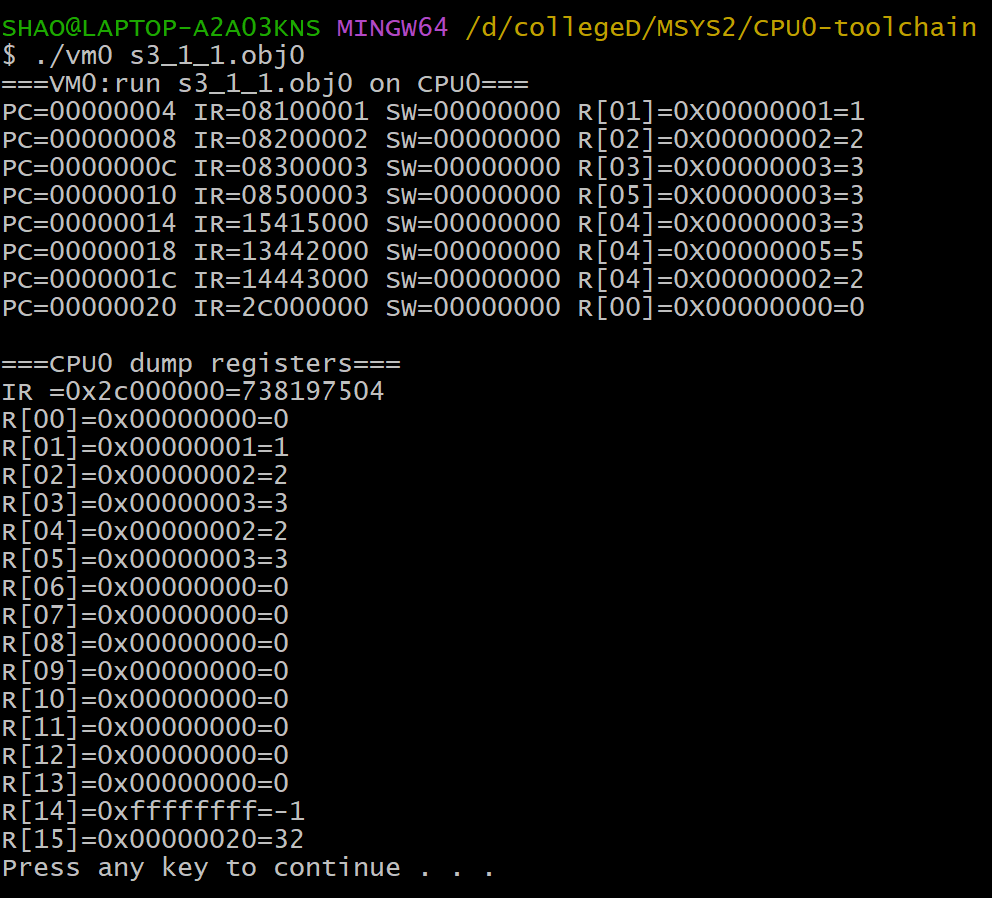
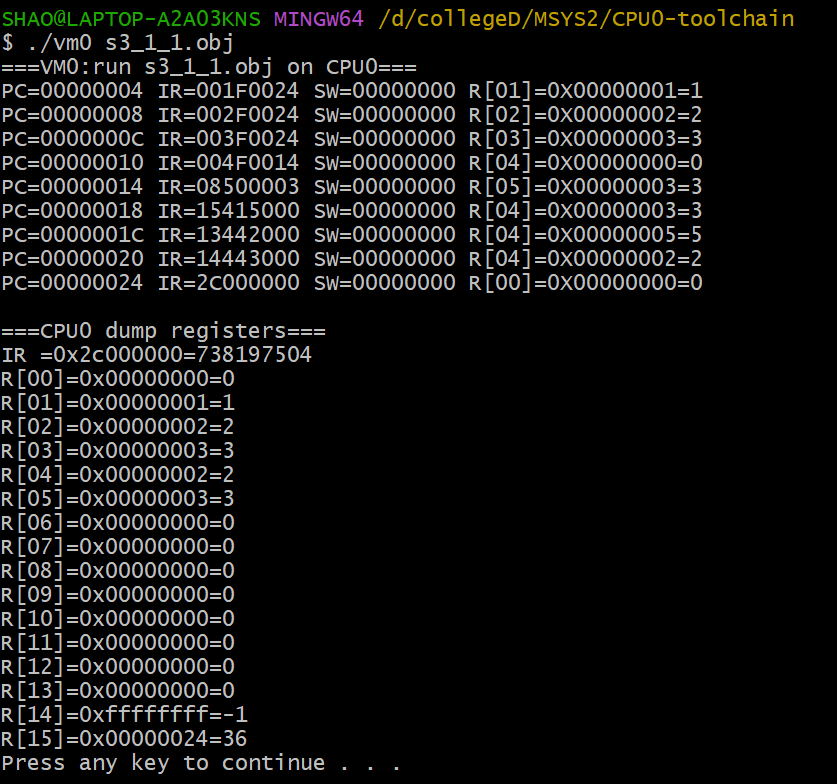
HW4 update

Changed region(s): [[0.0, 0.0, 0.994, 0.9796]]

diff --git a/HW4/hw4.md b/HW4/hw4.md
@@ -7,25 +7,30 @@
 程式碼：
 
 ```asm
-LDI R1, 1 # b
-LDI R2, 2 # c
-LDI R3, 3 # d
+LD R1, B # B
+LD R2, C # C
+LD R3, D # D
+LD R4, A # A
 LDI R5, 3 # constant 3
-MUL R4, R1, R5 # a = b*3
-ADD R4, R4, R2 # a = b*3 + c
-SUB R4, R4, R3 # a = b*3 + c - d
+MUL R4, R1, R5 # A = B*3
+ADD R4, R4, R2 # A = B*3 + C
+SUB R4, R4, R3 # A = B*3 + C - D
 RET
+A:  RESW 1
+B:  WORD 1
+C:  WORD 2
+D:  WORD 3
 ```
 
-編譯結果：
+執行Assembler結果：
 
-![compile](compile1.png)
+![assemble](assemble1.png)
 
-執行結果：
+執行Virtual machine結果：
 
 ![result](result1.png)
 
-## 請寫出一個 CPU 的組合語言 swap，可以將暫存器 $R1$ 與 $R2$ 的內容交換。先載入自行設定常數值後，再開始執行交換。
+## 請寫出一個 CPU 的組合語言 swap，可以將暫存器 R1 與 R2 的內容交換。先載入自行設定常數值後，再開始執行交換。
 
 > 以 R1=1, R2=2 為例 **(使用超酷的XOR方法，可以不需要第三個暫存器)**
 
@@ -42,15 +47,15 @@ XOR R1, R1, R2 # R1= 1^2^1 = 2
 RET
 ```
 
-編譯結果：
+執行Assembler結果：
 
-![compile](compile2.png)
+![assemble](assemble2.png)
 
-執行結果：
+執行Virtual machine結果：
 
 ![result](result2.png)
 
-## 請使用 CPU 的組合語言，撰寫一個組合語言程式，計算 $1$ 到 $20$ 的偶數和。
+## 請使用 CPU 的組合語言，撰寫一個組合語言程式，計算 1 到 20 的偶數和。
 
 ```asm
 LDI R1, 1 # I
@@ -71,10 +76,10 @@ SKIP:   ADD R1, R1, R4 # I++
 EXIT:   RET
 ```
 
-編譯結果：
+執行Assembler結果：
 
-![compile](compile3.png)
+![assemble](assemble3.png)
 
-執行結果：
+執行Virtual machine結果：
 
 ![result](result3.png)
